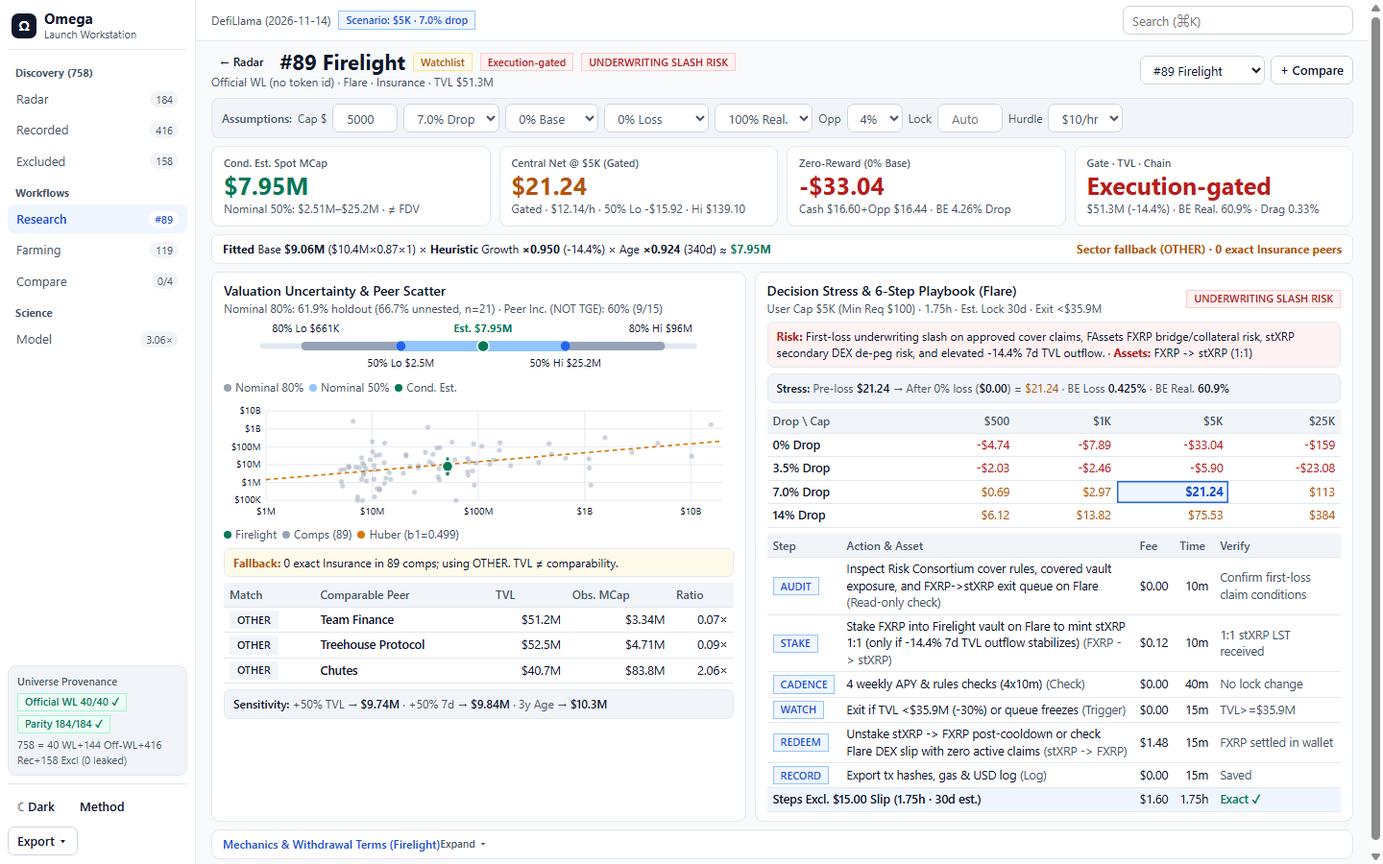
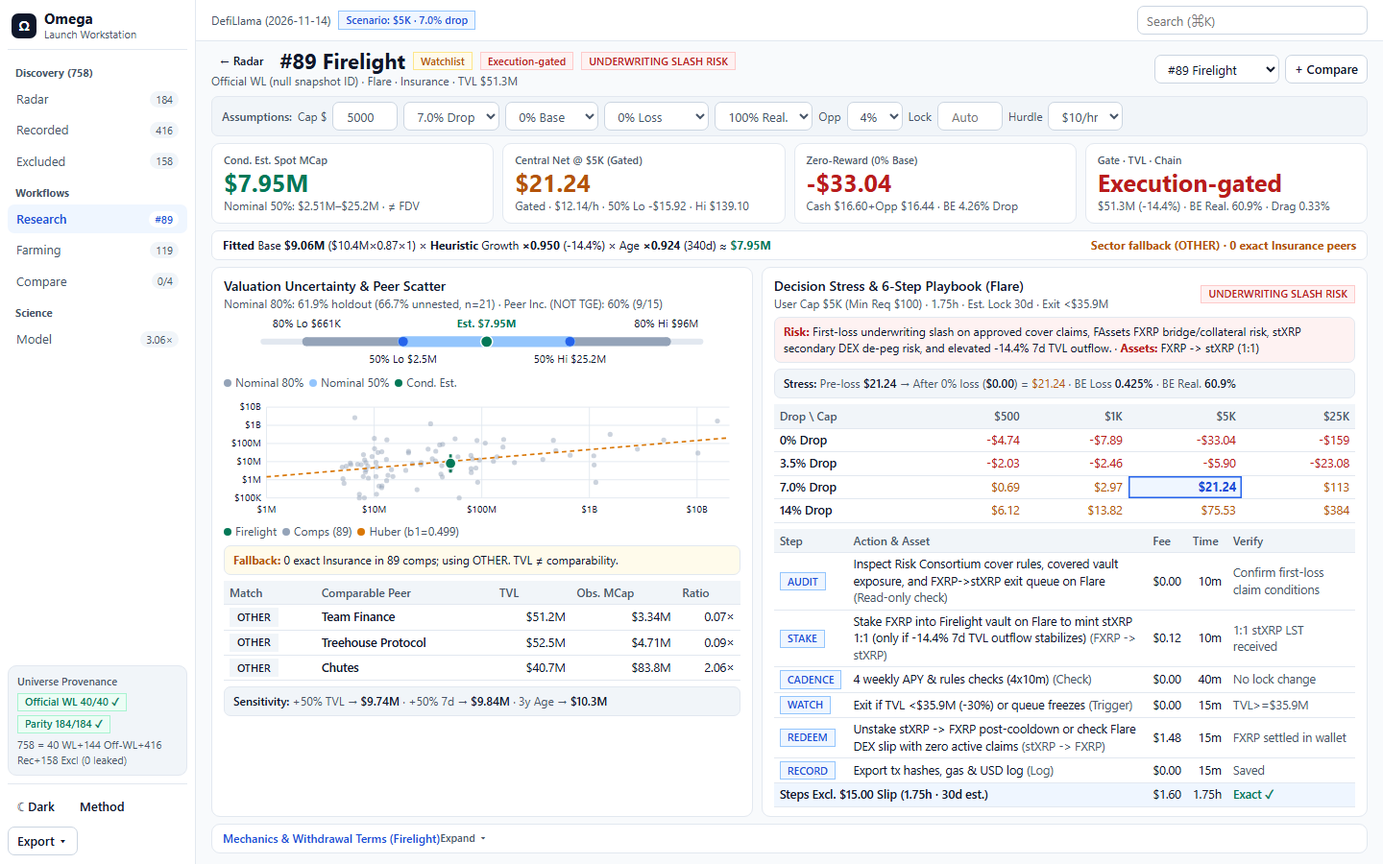
OMEGA Champion+: fix snapshot-ID vs tokenless wording and increase Radar footer clearance

diff --git a/dashboard/styles.css b/dashboard/styles.css
@@ -1,3 +1,3 @@
 :root{color-scheme:light;--b:#F8FAFC;--f:#fff;--s:#F1F5F9;--d:#E2E8F0;--d2:#CBD5E1;--t:#0F172A;--m:#475569;--a:#2563EB;--a2:#EFF6FF;--ad:#93C5FD;--at:#1D4ED8;--g:#047857;--g2:#ECFDF5;--g3:#A7F3D0;--r:#B91C1C;--r2:#FEF2F2;--r3:#FECACA;--w:#B45309;--w2:#FFFBEB;--w3:#FDE68A;--bar:#E2E8F0;--ob:#94A3B8;--cf:#D97706;--ex:#0284C7}[data-theme=dark]{color-scheme:dark;--b:#0B0D10;--f:#12151B;--s:#171B22;--d:#222834;--d2:#313A4A;--t:#F1F5F9;--m:#94A3B8;--a:#3B82F6;--a2:#2563eb29;--ad:#3b82f673;--at:#93C5FD;--g:#34D399;--g2:#10b98126;--g3:#10b98159;--r:#F87171;--r2:#ef444426;--r3:#ef444459;--w:#FBBF24;--w2:#f59e0b24;--w3:#f59e0b59;--bar:#1E2534;--ob:#475569;--cf:#FBBF24;--ex:#38BDF8}*{box-sizing:border-box;margin:0}html,body{background:var(--b);color:var(--t);font:14px/1.4 -apple-system,BlinkMacSystemFont,'Segoe UI',Roboto,sans-serif}button,input,select{font:inherit;color:inherit}:is(button,input,select,summary,th.srt,[tabindex]):focus-visible{outline:2px solid var(--a);outline-offset:1px}[hidden]{display:none!important}.rn,.kv,.rcnt,svg.chart text{font-variant-numeric:tabular-nums}.rn,.tbl th.r,.tbl td.r{text-align:right}.w1{width:100%}.pos{color:var(--g)}.neg{color:var(--r)}.warn{color:var(--w)}.ac{color:var(--at)}.t1{color:var(--t)}.t2,.ks,.cs,.tf,.psub,.sub,.rsb,.rgrp,.kl,.rprov,.rcnt,.eb,.dfb,.det,.scb,.em{color:var(--m)}.rel{position:relative}.fw6,.ct,.tbl th,.eb b,.rtab.on,.sbn.on,.tag,.ok,.h2,.kl,.det summary{font-weight:600}.fw7,.h1,.kv,.bt,.rgrp{font-weight:700}.nw,.rtab,.tag,.sbn,.tbl th,.bt,.btn{white-space:nowrap}.shell{display:flex}.rail{width:204px;flex:0 0 204px;background:var(--f);border-right:1px solid var(--d);display:flex;flex-direction:column;justify-content:space-between;padding:9px 8px;position:sticky;top:0;height:100vh;gap:8px}.rhead{display:flex;align-items:center;gap:8px;padding:2px 4px 8px;border-bottom:1px solid var(--d)}
-.bm{width:26px;height:26px;border-radius:7px;display:grid;place-items:center;background:var(--t);color:var(--b);font:700 14px sans-serif}.bt{font-size:15px;line-height:1.1}.rnav{display:flex;flex-direction:column;gap:2px;flex:1}.rgrp,.kl,.rprov,.rcnt,.rsb,.tag,.ok,svg.chart text,.det summary::after{font-size:11px}.rgrp{padding:8px 8px 3px}.rtab{display:flex;align-items:center;justify-content:space-between;width:100%;padding:6px 9px;border-radius:7px;border:0;background:0;color:var(--m);font-size:13px;text-align:left;cursor:pointer}.rtab:hover{background:var(--s);color:var(--t)}.rtab.on{background:var(--a2);color:var(--at)}.rcnt{padding:1px 6px;border-radius:9em;background:var(--s)}.rtab.on .rcnt{background:var(--f);color:var(--at)}.rprov{background:var(--s);border:1px solid var(--d);border-radius:9px;padding:8px 9px;display:flex;flex-direction:column;gap:4px}.rfoot{border-top:1px solid var(--d);padding-top:8px}.rfoot .pop{bottom:calc(100% + 6px);top:auto;left:0;right:auto}.maincol{flex:1;min-width:0;display:flex;flex-direction:column}.topbar{position:sticky;top:0;z-index:20;background:var(--f);border-bottom:1px solid var(--d);padding:6px 16px;display:flex;align-items:center;justify-content:space-between;gap:10px}.tcrumb{font-size:12px;color:var(--m);display:flex;align-items:center;gap:8px;flex-wrap:wrap}.wp{padding:9px 16px 12px;gap:8px;display:flex;flex-direction:column}
-.hr,.cg,.ph,.ch,.cbr,.scb,.tf,.lgd,.tray,.btn,.tag,.ok,.dfb,.vb{display:flex;align-items:center;flex-wrap:wrap;gap:6px}.ph,.ch,.cbr,.tf,.gi,.ep button,.dfb,.vb{justify-content:space-between}.ep,.kc,.cd,.det>div,.cp0,.mdl,.cb,.em{display:flex;flex-direction:column}.sbn,.btn,.sel,.inp,.gs,.eb,.rk,.wb,.tip,.gd,.gi,.ep button,.det,.seg,.dfb,.vb,.scb{border-radius:7px}.cd,.tc,.kc,.det,.pop,.tray,.mdl{border-radius:9px}.tag,.ok,.rf,.rm,.rb,.sbn,.btn,.gi,.ep button,.tbl th.srt,.tbl tr.rc,.pt-dot{cursor:pointer}.gs,.sel,.inp,.btn,.gi,.ep button{font-size:13px}.bsm,.ks,.sbn,.tbl th,.sub,.eb,.rk,.wb,.dfb,.det,.scb,.tip,.cs,.tf,.cp0,.vb,.psub{font-size:12px}.cd,.tc,.kc,.det,.pop,.tray,.tip,.vb,.mdl,.sbn.on,.gs,.sel,.inp,.btn,.cb,.tf{background:var(--f)}.cd,.tc,.kc,.det,.seg,.vb,.scb,.eb,.dfb{border:1px solid var(--d)}.tbl tr.rc:hover{background:var(--s)}.tbl th.srt:hover{color:var(--t)}.sw{position:relative;width:240px}.gs,.sel,.inp,.btn,.pop,.tray,.tip,.mdl{border:1px solid var(--d2)}.gs,.sel,.inp,.btn{height:30px}.gs,.sel,.inp{padding:0 9px}.gs{width:100%}.iq{width:min(170px,100%)}.ic{width:68px;text-align:right}.sel{width:130px}.scb .sel{width:auto;max-width:146px}.pop,.tray,.tip{box-shadow:0 6px 16px #0f172a18}.pop{position:absolute;top:calc(100% + 6px);right:0;z-index:40}.gd{left:0;width:min(360px,calc(100vw - 28px));max-height:360px;overflow-y:auto;padding:6px}.ep{width:168px;padding:6px;gap:2px}.gi,.ep button{display:flex;align-items:center;gap:8px;width:100%;padding:6px 8px;background:0;border:0;text-align:left}.gi:hover,.ep button:hover{background:var(--a2);color:var(--at)}.h1{font-size:22px;line-height:1.15;display:flex;align-items:center;gap:8px}.h2{font-size:16px}.btn{padding:0 9px;font-weight:500}.btn:hover{border-color:var(--a);color:var(--at)}.btn:disabled{opacity:.45}.bg{background:0;border-color:#0000}.bg:hover{border-color:var(--d2);background:var(--s)}.ba{background:var(--a2);border-color:var(--ad);color:var(--at)}.bsm{height:24px;padding:0 8px}.tag,.ok{display:inline-flex;padding:1.5px 7px;border:1px solid #0000;line-height:1.3}.ta{background:var(--a2);color:var(--at);border-color:var(--ad)}.tp,.ok{background:var(--g2);color:var(--g);border-color:var(--g3)}.tn,.rk{background:var(--r2);color:var(--r);border-color:var(--r3)}.tw,.wb{background:var(--w2);color:var(--w);border-color:var(--w3)}.tm,.eb,.dfb,.scb{background:var(--s)}.vb{padding:6px 11px}.kg{display:grid;grid-template-columns:repeat(4,minmax(140px,1fr));gap:9px}.kc{padding:9px 12px;gap:2px}.kc.kw{border-color:var(--w3);background:var(--w2)}.kv{font-size:25px;line-height:1.12}.g2{display:grid;grid-template-columns:1fr 1fr;gap:9px}.rg{display:grid;grid-template-columns:1fr 1.12fr;gap:9px}.cd{padding:9px 12px;gap:6px;min-width:0}.ct{font-size:14px;color:var(--t)}.seg{display:inline-flex;background:var(--s);padding:2px;gap:2px}.sbn{padding:3px 8px;border:0;background:0;color:var(--m);font-weight:500}.sbn.on{color:var(--t)}.cb{padding:6px 10px;border-bottom:1px solid var(--d);gap:6px}.cbr .cg{flex-wrap:nowrap}.scb{gap:6px;padding:5px 10px}.dot{width:8px;height:8px;border-radius:50%;display:inline-block;margin-right:4px}.ts{width:100%;overflow-x:auto}.tbl{width:100%;border-collapse:collapse}.tbl th{padding:7px 9px;background:var(--s);border-bottom:1px solid var(--d);color:var(--m);text-align:left}.tbl th.srt.on{color:var(--at)}.tbl td{height:42px;padding:3px 8px;border-bottom:1px solid var(--d);font-size:13.5px}.tbl tr.rs,.tbl tr.ron{background:var(--a2)}.tbl.cp td{height:23px;padding:3px 6px;font-size:12.5px}.tbl.cp th{padding:4px 6px}.tf{padding:6px 10px;border-top:1px solid var(--d)}.rb{position:relative;height:6px;background:var(--bar);margin-top:3px}.rf{position:absolute;top:0;height:6px;background:var(--a);opacity:.72}.rm{position:absolute;top:-1.5px;width:5px;height:9px;background:var(--g);transform:translateX(-50%)}svg.chart{width:100%;height:auto;display:block;overflow:visible}svg.chart .gl{stroke:var(--d);stroke-width:1;fill:none}svg.chart text{fill:var(--t)}svg.chart .m{text-anchor:middle}.eb,.rk,.wb,.dfb{padding:6px 9px;border:1px solid var(--d)}.wp>.eb{display:flex;align-items:center;justify-content:space-between;gap:10px}.eb b,.rk,.wb{color:var(--t)}.rk b{color:var(--r)}.wb b{color:var(--w)}.det summary{display:flex;padding:6px 11px;color:var(--at);cursor:pointer;list-style:none}.det summary::after{content:'Expand ▾';color:var(--m)}.det[open] summary::after{content:'Hide ▴'}.det>div{padding:7px 10px;border-top:1px solid var(--d)}.mx td.act{box-shadow:inset 0 0 0 1.5px var(--a);background:var(--a2);color:var(--at)}.em{padding:34px 20px;text-align:center;align-items:center;gap:9px}.cp0{right:0;left:auto;width:200px;padding:9px;gap:6px}.tray{position:fixed;bottom:12px;left:50%;transform:translateX(-50%);z-index:35;gap:8px;padding:7px 12px;border-color:var(--ad);max-width:calc(100vw - 24px)}.tip{position:fixed;z-index:50;pointer-events:none;max-width:280px;padding:7px 9px}.mbg{position:fixed;inset:0;z-index:60;background:#0f172a85;display:grid;place-items:center;padding:24px}.mdl{width:min(680px,100%);max-height:85vh;overflow-y:auto;padding:18px;gap:10px}.xb{background:0;border:0;cursor:pointer;margin-left:4px}@media(max-width:1180px){.shell{flex-direction:column}.rail{width:100%;height:auto;position:static;flex-direction:row;flex-wrap:wrap;align-items:center;border-right:0;border-bottom:1px solid var(--d);padding:8px 14px}.rhead{border-bottom:0;padding:0 8px 0 0}.rnav{flex-direction:row;flex-wrap:wrap}.rgrp,.rprov{display:none}.rfoot{border-top:0;padding-top:0}.rfoot .pop{top:calc(100% + 6px);bottom:auto;left:auto;right:0}.cbr .cg{flex-wrap:wrap}.kg{grid-template-columns:repeat(2,1fr)}.g2,.rg{grid-template-columns:1fr}}@media(max-width:720px){.topbar,.wp{padding:10px 12px}.sw{width:100%}.kg{grid-template-columns:1fr}.cp0{left:0;right:auto}}
+.bm{width:26px;height:26px;border-radius:7px;display:grid;place-items:center;background:var(--t);color:var(--b);font:700 14px sans-serif}.bt{font-size:15px;line-height:1.1}.rnav{display:flex;flex-direction:column;gap:2px;flex:1}.rgrp,.kl,.rprov,.rcnt,.rsb,.tag,.ok,svg.chart text,.det summary::after{font-size:11px}.rgrp{padding:8px 8px 3px}.rtab{display:flex;align-items:center;justify-content:space-between;width:100%;padding:6px 9px;border-radius:7px;border:0;background:0;color:var(--m);font-size:13px;text-align:left;cursor:pointer}.rtab:hover{background:var(--s);color:var(--t)}.rtab.on{background:var(--a2);color:var(--at)}.rcnt{padding:1px 6px;border-radius:9em;background:var(--s)}.rtab.on .rcnt{background:var(--f);color:var(--at)}.rprov{background:var(--s);border:1px solid var(--d);border-radius:9px;padding:8px 9px;display:flex;flex-direction:column;gap:4px}.rfoot{border-top:1px solid var(--d);padding-top:8px}.rfoot .pop{bottom:calc(100% + 6px);top:auto;left:0;right:auto}.maincol{flex:1;min-width:0;display:flex;flex-direction:column}.topbar{position:sticky;top:0;z-index:20;background:var(--f);border-bottom:1px solid var(--d);padding:6px 16px;display:flex;align-items:center;justify-content:space-between;gap:10px}.tcrumb{font-size:12px;color:var(--m);display:flex;align-items:center;gap:8px;flex-wrap:wrap}.wp{padding:8px 16px 10px;gap:7px;display:flex;flex-direction:column}
+.hr,.cg,.ph,.ch,.cbr,.scb,.tf,.lgd,.tray,.btn,.tag,.ok,.dfb,.vb{display:flex;align-items:center;flex-wrap:wrap;gap:6px}.ph,.ch,.cbr,.tf,.gi,.ep button,.dfb,.vb{justify-content:space-between}.ep,.kc,.cd,.det>div,.cp0,.mdl,.cb,.em{display:flex;flex-direction:column}.sbn,.btn,.sel,.inp,.gs,.eb,.rk,.wb,.tip,.gd,.gi,.ep button,.det,.seg,.dfb,.vb,.scb{border-radius:7px}.cd,.tc,.kc,.det,.pop,.tray,.mdl{border-radius:9px}.tag,.ok,.rf,.rm,.rb,.sbn,.btn,.gi,.ep button,.tbl th.srt,.tbl tr.rc,.pt-dot{cursor:pointer}.gs,.sel,.inp,.btn,.gi,.ep button{font-size:13px}.bsm,.ks,.sbn,.tbl th,.sub,.eb,.rk,.wb,.dfb,.det,.scb,.tip,.cs,.tf,.cp0,.vb,.psub{font-size:12px}.cd,.tc,.kc,.det,.pop,.tray,.tip,.vb,.mdl,.sbn.on,.gs,.sel,.inp,.btn,.cb,.tf{background:var(--f)}.cd,.tc,.kc,.det,.seg,.vb,.scb,.eb,.dfb{border:1px solid var(--d)}.tbl tr.rc:hover{background:var(--s)}.tbl th.srt:hover{color:var(--t)}.sw{position:relative;width:240px}.gs,.sel,.inp,.btn,.pop,.tray,.tip,.mdl{border:1px solid var(--d2)}.gs,.sel,.inp,.btn{height:30px}.gs,.sel,.inp{padding:0 9px}.gs{width:100%}.iq{width:min(170px,100%)}.ic{width:68px;text-align:right}.sel{width:130px}.scb .sel{width:auto;max-width:146px}.pop,.tray,.tip{box-shadow:0 6px 16px #0f172a18}.pop{position:absolute;top:calc(100% + 6px);right:0;z-index:40}.gd{left:0;width:min(360px,calc(100vw - 28px));max-height:360px;overflow-y:auto;padding:6px}.ep{width:168px;padding:6px;gap:2px}.gi,.ep button{display:flex;align-items:center;gap:8px;width:100%;padding:6px 8px;background:0;border:0;text-align:left}.gi:hover,.ep button:hover{background:var(--a2);color:var(--at)}.h1{font-size:22px;line-height:1.15;display:flex;align-items:center;gap:8px}.h2{font-size:16px}.btn{padding:0 9px;font-weight:500}.btn:hover{border-color:var(--a);color:var(--at)}.btn:disabled{opacity:.45}.bg{background:0;border-color:#0000}.bg:hover{border-color:var(--d2);background:var(--s)}.ba{background:var(--a2);border-color:var(--ad);color:var(--at)}.bsm{height:24px;padding:0 8px}.tag,.ok{display:inline-flex;padding:1.5px 7px;border:1px solid #0000;line-height:1.3}.ta{background:var(--a2);color:var(--at);border-color:var(--ad)}.tp,.ok{background:var(--g2);color:var(--g);border-color:var(--g3)}.tn,.rk{background:var(--r2);color:var(--r);border-color:var(--r3)}.tw,.wb{background:var(--w2);color:var(--w);border-color:var(--w3)}.tm,.eb,.dfb,.scb{background:var(--s)}.vb{padding:6px 11px}.kg{display:grid;grid-template-columns:repeat(4,minmax(140px,1fr));gap:9px}.kc{padding:9px 12px;gap:2px}.kc.kw{border-color:var(--w3);background:var(--w2)}.kv{font-size:25px;line-height:1.12}.g2{display:grid;grid-template-columns:1fr 1fr;gap:9px}.rg{display:grid;grid-template-columns:1fr 1.12fr;gap:9px}.cd{padding:9px 12px;gap:6px;min-width:0}.ct{font-size:14px;color:var(--t)}.seg{display:inline-flex;background:var(--s);padding:2px;gap:2px}.sbn{padding:3px 8px;border:0;background:0;color:var(--m);font-weight:500}.sbn.on{color:var(--t)}.cb{padding:6px 10px;border-bottom:1px solid var(--d);gap:6px}.cbr .cg{flex-wrap:nowrap}.scb{gap:6px;padding:5px 10px}.dot{width:8px;height:8px;border-radius:50%;display:inline-block;margin-right:4px}.ts{width:100%;overflow-x:auto}.tbl{width:100%;border-collapse:collapse}.tbl th{padding:7px 9px;background:var(--s);border-bottom:1px solid var(--d);color:var(--m);text-align:left}.tbl th.srt.on{color:var(--at)}.tbl td{height:40px;padding:2px 8px;border-bottom:1px solid var(--d);font-size:13.5px}.tbl tr.rs,.tbl tr.ron{background:var(--a2)}.tbl.cp td{height:23px;padding:3px 6px;font-size:12.5px}.tbl.cp th{padding:4px 6px}.tf{padding:6px 10px;border-top:1px solid var(--d)}.rb{position:relative;height:6px;background:var(--bar);margin-top:3px}.rf{position:absolute;top:0;height:6px;background:var(--a);opacity:.72}.rm{position:absolute;top:-1.5px;width:5px;height:9px;background:var(--g);transform:translateX(-50%)}svg.chart{width:100%;height:auto;display:block;overflow:visible}svg.chart .gl{stroke:var(--d);stroke-width:1;fill:none}svg.chart text{fill:var(--t)}svg.chart .m{text-anchor:middle}.eb,.rk,.wb,.dfb{padding:6px 9px;border:1px solid var(--d)}.wp>.eb{display:flex;align-items:center;justify-content:space-between;gap:10px}.eb b,.rk,.wb{color:var(--t)}.rk b{color:var(--r)}.wb b{color:var(--w)}.det summary{display:flex;padding:6px 11px;color:var(--at);cursor:pointer;list-style:none}.det summary::after{content:'Expand ▾';color:var(--m)}.det[open] summary::after{content:'Hide ▴'}.det>div{padding:7px 10px;border-top:1px solid var(--d)}.mx td.act{box-shadow:inset 0 0 0 1.5px var(--a);background:var(--a2);color:var(--at)}.em{padding:34px 20px;text-align:center;align-items:center;gap:9px}.cp0{right:0;left:auto;width:200px;padding:9px;gap:6px}.tray{position:fixed;bottom:12px;left:50%;transform:translateX(-50%);z-index:35;gap:8px;padding:7px 12px;border-color:var(--ad);max-width:calc(100vw - 24px)}.tip{position:fixed;z-index:50;pointer-events:none;max-width:280px;padding:7px 9px}.mbg{position:fixed;inset:0;z-index:60;background:#0f172a85;display:grid;place-items:center;padding:24px}.mdl{width:min(680px,100%);max-height:85vh;overflow-y:auto;padding:18px;gap:10px}.xb{background:0;border:0;cursor:pointer;margin-left:4px}@media(max-width:1180px){.shell{flex-direction:column}.rail{width:100%;height:auto;position:static;flex-direction:row;flex-wrap:wrap;align-items:center;border-right:0;border-bottom:1px solid var(--d);padding:8px 14px}.rhead{border-bottom:0;padding:0 8px 0 0}.rnav{flex-direction:row;flex-wrap:wrap}.rgrp,.rprov{display:none}.rfoot{border-top:0;padding-top:0}.rfoot .pop{top:calc(100% + 6px);bottom:auto;left:auto;right:0}.cbr .cg{flex-wrap:wrap}.kg{grid-template-columns:repeat(2,1fr)}.g2,.rg{grid-template-columns:1fr}}@media(max-width:720px){.topbar,.wp{padding:10px 12px}.sw{width:100%}.kg{grid-template-columns:1fr}.cp0{left:0;right:auto}}

diff --git a/dashboard/app.js b/dashboard/app.js
@@ -23,7 +23,7 @@ function rRad(){
 const list=gF('radar'),[cenN,robN,gatN]=cnt(ecA());return ph('Token Launch Radar',`DefiLlama (${R.as_of}) · Clean pre-token · Conditional Spot MCap≠FDV`)+kGrid([['Ranked candidates',N,`${wlN}/${wt} Official WL · ${aN} off-WL ≥$50M · ${bN} &lt;$50M`,'ac'],
 ['Universe audited',`${tt}/${R.protocols.length}`,`${lt} recorded · ${et} excl · 0 leaked`,'pos'],
 ['Median model error',`${X(fin.loo_med_mult,2)}×`,`Huber+EB · 89 comps (vs 4.43×) · CS ${sc80}%`],
-['Scenario-qualified',`${cenN}/${N}`,`@${U(S.budget,0)} ≥$${S.hurdleHr}/h · +${gatN} gated · ${robN} Lower-50%`,cenN?'pos':'warn']])+dv('eb',`<span><b>Snapshot Screen (≥$50M):</b> ${fNT} tokenless → <b>${wlN}</b> Official WL + <b>${aN}</b> clean off-WL; <b>${fEX}</b> excl. CEX/bridges/LSTs (e.g. WBTC, Coinbase Bridge, Binance Staked ETH).</span>${bs(`Excluded (${et}) →`,'data-view=excluded',' ba nw')}`)+pT(list,'radar',cBar('radar'));
+['Scenario-qualified',`${cenN}/${N}`,`@${U(S.budget,0)} ≥$${S.hurdleHr}/h · +${gatN} gated · ${robN} Lower-50%`,cenN?'pos':'warn']])+dv('eb',`<span><b>Snapshot ID Audit (≥$50M):</b> ${fNT} lack snapshot token IDs → <b>${wlN}</b> Official WL + <b>${aN}</b> clean off-WL; <b>${fEX}</b> excl. CEX/bridges/LSTs (WBTC, Coinbase Bridge, Binance Staked ETH); live tokens flagged.</span>${bs(`Excluded (${et}) →`,'data-view=excluded',' ba nw')}`)+pT(list,'radar',cBar('radar'));
 }
 function rFrm(){
 const list=gF('farming'),ec=ecA(),gE=r=>ec[R0.indexOf(r)],mdC=k=>list.length?O.median(list.map(r=>gE(r)[k])):0,[cenN,robN,gatN,zPos,allGat]=cnt(ec),sel=list.find(r=>r.slug===S.slug)||list[0]||null,gS=sel?gE(sel):null,pO=p0(S.orgApr);
@@ -36,7 +36,7 @@ function rRes(){
 const r=cur(),g=cR(r),ap=auditFarmingPlaybook(r,g),[bT,bC]=sb(g),{tvl_usd:tv,tvl_family:tf,farm:f,log_decomp:d,peer_incidence:pi,implied_value_usd:iv,category:ct,sc}=r,{hypNet:hn,zeroRewardCost:zc,lossUsd:lu,robustClass:rc}=g,gt=isG(g);
 const bg=S.budget,b0=U(bg,0),tL=log(max(1,tf)),ex=M.comps.filter(c=>c.category===ct),sn=a=>[...a].sort((u,v)=>abs(log(u.tvl_family)-tL)-abs(log(v.tvl_family)-tL)),peers=(ex.length?sn(ex):sn(M.comps.filter(c=>c.sc===sc))).slice(0,3),cf=ov=>max(1,round(exp(O.decomposeLog(F,{...r,...ov},msSnap).totalLog))),pin=S.compare.includes(r.slug);
 const gt0=f.non_farm_flag||(rc===EG?(g.dragPct>S.dragLimit*100?`Drag ${X(g.dragPct,1)}%>${X(S.dragLimit*100,0)}%`:`Cap<Min ${U(f.min_viable_usd,0)}`):bT),ag=r.age_missing?'N/A (365d prior)':`${r.age_days}d`,gT=r.growth_missing?'N/A':P(r.change_7d),eCt=E(ct),eCh=E(f.routed_chain),rN=E(r.name),stL=S.lockDays??f.lockup_days,gS=E(gt?gt0:bT);
-const tokId=r.is_watchlist?'Official WL (no token id)':r.tvl_usd>=R.floor_usd?'Off-WL ≥$50M (Tokenless)':'<$50M Early (Tokenless)';return ph(`${bs('← Radar','data-view=radar',' bg')} #${r.rank} ${rN} ${fTg(r,[bT,bC])}`,`${tokId} · ${eCh} · ${eCt} · TVL ${U(tv)}`,dv('cg',slc('detProto',R0,r.slug,x=>[x.slug,`#${x.rank} ${E(x.name)}`],'Proto')+B(pin?'✓ Pinned':'+ Compare',`data-cmp='${E(r.slug)}'`,`btn${pin?' ba':''}`)))+dv('scb',`${fw('Assumptions:')} ${t2('Cap $')}<input id=inCap class='inp ic' type=number min=1 ${al('Capital')} value=${bg}>${drS()}${orgS()}${lsS()}${rpS()}${t2('Opp')}${aprS()}${t2('Lock')}${lkI()}${t2('Hurdle')}${hrdS()}`)+kGrid([['Cond. Est. Spot MCap',U(iv),`Nominal 50%: ${U(r.p25_usd)}–${U(r.p75_usd)} · ≠ FDV`,'pos'],
+const tokId=r.is_watchlist?'Official WL (null snapshot ID)':r.tvl_usd>=R.floor_usd?'Off-WL ≥$50M (null snapshot ID)':'<$50M Early (null snapshot ID)';return ph(`${bs('← Radar','data-view=radar',' bg')} #${r.rank} ${rN} ${fTg(r,[bT,bC])}`,`${tokId} · ${eCh} · ${eCt} · TVL ${U(tv)}`,dv('cg',slc('detProto',R0,r.slug,x=>[x.slug,`#${x.rank} ${E(x.name)}`],'Proto')+B(pin?'✓ Pinned':'+ Compare',`data-cmp='${E(r.slug)}'`,`btn${pin?' ba':''}`)))+dv('scb',`${fw('Assumptions:')} ${t2('Cap $')}<input id=inCap class='inp ic' type=number min=1 ${al('Capital')} value=${bg}>${drS()}${orgS()}${lsS()}${rpS()}${t2('Opp')}${aprS()}${t2('Lock')}${lkI()}${t2('Hurdle')}${hrdS()}`)+kGrid([['Cond. Est. Spot MCap',U(iv),`Nominal 50%: ${U(r.p25_usd)}–${U(r.p75_usd)} · ≠ FDV`,'pos'],
 [gt?`Central Net @ ${b0} (Gated)`:`Central Net @ ${b0}`,Us(hn),`${gt?`Gated · `:''}${Us(g.hypPerHr)}/h · 50% Lo ${Us(g.lowNet)} · Hi ${Us(g.highNet)}`,nC(g)],
 [`Zero-Reward (${p0(S.orgApr)} Base)`,Us(zc),`Cash ${U(g.cashCost)}+Opp ${U(g.opp)}${lu?`+Loss ${U(lu)}`:''} · BE ${X(g.beDropPct,2)}% Drop`,pn(zc)],
 ['Gate · TVL · Chain',E(bT),`${U(tv)} (${gT}) · BE Real. ${X(g.beRealPct,1)}% · Drag ${X(g.dragPct,2)}%`,rc===EG?'neg':rc===CO?'ac':'t1']])+dv('vb',`<span><b>Fitted</b> Base <b>${U(r.base_value_usd)}</b> (${U(d.global)}×${d.sup_mult}×${d.cat_mult}) × <b>Heuristic</b> Growth <b>×${X(r.growth_multiplier,3)}</b> (${gT}) × Age <b>×${X(r.maturity_multiplier,3)}</b> (${ag}) ≈ <b class=pos>${U(iv)}</b></span>${t2(r.n_cat_comps?`${r.n_cat_comps} exact ${eCt} comps`:`<b class=warn>Sector fallback (${sc}) · 0 exact ${eCt} peers</b>`)}`)+`<section class=rg>${C('Valuation Uncertainty & Peer Scatter',`Nominal 80%: ${sc80}% holdout (${un80}% unnested, n=21) · Peer Inc. (NOT TGE): ${pi.rate_pct}% (${pi.peers_tok}/${pi.peers_tot})`,rSVG(r)+sSVG(r,136)+(r.n_cat_comps?'':dv('wb',`<b>Fallback:</b> 0 exact ${eCt} in ${cpN} comps; using ${sc}. TVL ≠ comparability.`))+(r.wl_conflict?dv('wb',`<b>Sibling note:</b> ${E(r.wl_conflict)}`):'')+tb(S0('Match,Comparable Peer,TVL,Obs. MCap,Ratio'),peers.map(c=>[G(c.category===ct?'ta':'tm',c.category===ct?'Exact Cat':E(c.sc)),[E(c.name),'fw6'],rnC(U(c.tvl_family)),rnC(U(c.mcap_usd)),rnC(`${X(c.mcap_usd/max(1,c.tvl_family),2)}×`)]),'cp')+eb(`<b>Sensitivity:</b> +50% TVL → <b>${U(cf({tvl_family:tf*1.5,tvl_usd:tv*1.5}))}</b> · +50% 7d → <b>${U(cf({change_7d:50}))}</b> · 3y Age → <b>${U(cf({listed_at:age3y}))}</b>`))}${C(`Decision Stress & ${f.steps.length}-Step Playbook (${eCh})`,`User Cap ${b0} (Min Req ${U(f.min_viable_usd,0)}) · ${f.hours}h · Est. Lock ${stL}d · Exit <${E(f.tvl_trigger_label)}`,dv(f.non_farm_flag?'rk':'eb',`<b>Risk:</b> ${E(f.key_risks)} · <b>Assets:</b> ${E(f.assets)}`)+eb(`<b>Stress:</b> Pre-loss <b>${Us(g.hypNetBeforeLoss)}</b> → After ${lP()} loss (<b>${U(lu)}</b>) = ${sp(nC(g),Us(hn))} · BE Loss <b>${X(g.beLossPct,3)}%</b> · BE Real. <b>${X(g.beRealPct,1)}%</b>`)+tbl(['Drop \\ Cap',...CAPS.map(c=>`^${U(c,0)}`)],J(DRPS,ds=>T([[ds?`${dP(ds)} Drop`:'0% Drop','fw6'],...CAPS.map(c=>{const cl=cR(r,c,ds);return rnC(U(cl.hypNet),`${isC(cl)?'pos':cl.hypNet>0?'warn':'neg'}${c===bg&&abs(ds-S.dropShare)<1e-4?' act fw7':''}`)})])),'cp mx')+tbl(S0('Step,Action & Asset,Fee,Time,Verify'),J(f.steps,x=>T([G('ta',E(x.label)),`${E(x.action)} ${t2(`(${E(x.asset)})`)}`,rnC(U(x.cost_usd)),rnC(`${x.time_min}m`),[E(x.verify),'t2']]))+`<tr class=ron><td colspan=2 class=fw6>Steps Excl. ${U(ap.slippage_usd)} Slip (${ap.hours}h · ${stL}d est.)</td>${gG(U(ap.step_fees_usd))}${gG(`${f.hours}h`)}<td class='${ap.step_sum_exact?'pos':'neg'} fw6'>${ap.step_sum_exact?'Exact ✓':'Check'}</td></tr>`,'cp'),G(bC,gS))}</section>`+det(`Mechanics & Withdrawal Terms (${rN})`,eb(`<b>Mech:</b> ${E(f.mechanism)} · <b>Exit/Terms:</b> ${E(f.exit_mechanics)} · <b>Geo/KYC:</b> ${E(f.kyc_or_geo)} · <b>Unknowns:</b> ${E(f.unknowns)} Pool cap 2%.`));
@@ -48,7 +48,7 @@ const hd=isF?['Protocol','Status',sh('tvl','Cap / Lock'),'^Cash Cost','^Zero-Rew
 const bdy=J(list.slice(st,st+S.perPage),r=>{
 const g=cR(r),{slug:sl,change_7d:c7,age_days:ag,implied_value_usd:iv,category:ct,peer_incidence:pi,farm:f}=r,{zeroRewardCost:zc,hypNet:hn,hypPerHr:hh,beDropPct:bd,organicUsd:og,robustClass:clR,valid:ok}=g;
 const pin=cm.includes(sl),pb=bs(pin?'Pinned':'+ Add',`data-cmp='${E(sl)}'${cm.length>=4&&!pin?' disabled':''}`,pin?' ba':''),rc=`rc ${sl===S.slug?'rs':''}' tabindex=0 data-slug='${E(sl)}`,bdg=`${U(r.p25_usd,0)}–${U(r.p75_usd,0)}`;
-const prov=r.is_watchlist?'WL (no tok)':r.tvl_usd>=R.floor_usd?'Off-WL ≥$50M':'<$50M Early',s0=E(`${f.routed_chain} · ${ct}`);if(isF){const[bT,bC]=sb(g),sC={tp:'pos',ta:'ac',tw:'warn',tn:'neg'}[bC]||'t2';return T([mSub(fw(E(r.name)),s0),sp(`${sC} fw6 nw`,`● ${bT}`),rnC(mSub(U(bg==='Plan'?0:S.budget,0),`${S.lockDays??f.lockup_days}d est.`),'t2'),rnC(U(g.cashCost)),rnC(Us(zc),pn(zc)),rnC(ok?Us(g.lowNet):'—','t1'),rnC(ok?`<b>${Us(hn)}</b>`:'—',nC(g)),rnC(mSub(`${f.hours}h`,bd!=null?`BE ${bd}%`:'—'),'t2'),rnC(ok?`<b>${Us(hh)}/h</b>`:'—',hC(g)),...(co.range?[rnC(mSub(U(iv,1),bdg))]:[]),[pb,'r']],rc)}
+const prov=r.is_watchlist?'WL (null ID)':r.tvl_usd>=R.floor_usd?'Off-WL ≥$50M (null ID)':'<$50M (null ID)',s0=E(`${f.routed_chain} · ${ct}`);if(isF){const[bT,bC]=sb(g),sC={tp:'pos',ta:'ac',tw:'warn',tn:'neg'}[bC]||'t2';return T([mSub(fw(E(r.name)),s0),sp(`${sC} fw6 nw`,`● ${bT}`),rnC(mSub(U(bg==='Plan'?0:S.budget,0),`${S.lockDays??f.lockup_days}d est.`),'t2'),rnC(U(g.cashCost)),rnC(Us(zc),pn(zc)),rnC(ok?Us(g.lowNet):'—','t1'),rnC(ok?`<b>${Us(hn)}</b>`:'—',nC(g)),rnC(mSub(`${f.hours}h`,bd!=null?`BE ${bd}%`:'—'),'t2'),rnC(ok?`<b>${Us(hh)}/h</b>`:'—',hC(g)),...(co.range?[rnC(mSub(U(iv,1),bdg))]:[]),[pb,'r']],rc)}
 const gt=clR===EG?`${G('tn',g.classLabel===RQ?'Research':'Gated')} `:clR===CO?`${G('ta','Qualified')} `:'';const arTxt=ok?`Drop ${U(g.hypGross)}${S.realPct<1?`×${p0(S.realPct)}`:''}${og?` +Base ${U(og)}`:''} − ${U(g.totalCost)}${g.lossUsd?` − ${U(g.lossUsd)}`:''}`:'Invalid params';
 return T([rnC(r.rank,'t2'),mSub(`${fw(E(r.name))} ${fTg(r)}`,`${s0} · <span class=t2>${prov}</span>`),[U(r.tvl_usd,1),RF],...(co.chg7?[rnC(mSub(r.growth_missing?'N/A':P(c7),`×${X(r.growth_multiplier,2)}`),r.growth_missing?'t2':(c7??0)>=0?'pos':'neg')]:[]),...(co.age?[rnC(mSub(ag!=null?`${ag}d`:'N/A',`×${X(r.maturity_multiplier,2)}`),'t2')]:[]),...(co.peer?[rnC(`${pi.rate_pct}% (${pi.peers_tok}/${pi.peers_tot})`)]:[]),[U(iv,1),RF],...(co.range?[rnC(`<div>${bdg}</div>${rBar(r)}`,'t2')]:[]),[`<div><b class='${ok?nCRad(g):'t2'}'>${U(hn)}</b> ${sp('t2',ok?`(${U(hh)}/h)`:'(Invalid)')}</div>${sub(`${gt}${t2(arTxt)}`)}`,'r nw'],[pb,'r']],rc);
 });return tw(hd,bdy,`<span>Showing ${st+1}–${min(st+S.perPage,list.length)} of ${list.length} · ${isF?'Conditional outputs (not expected return)':'TVL share ≤ 2% · Cond. Spot MCap ≠ FDV'}</span>${dv('cg',pgs(S.page,tp,'page')+`<span>Rows</span>${slc('perSel',[7,8,9,10,11,15],S.perPage,n=>[n,n],'Rows')}`)}`,top);
